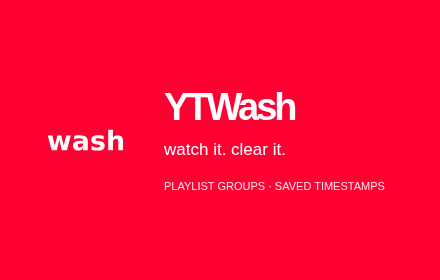
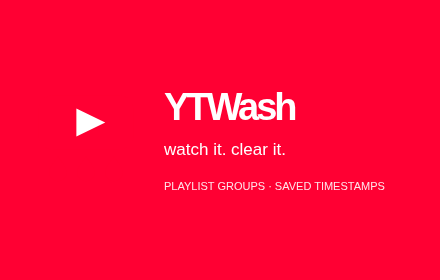
Try play button and red raindrops branding

Changed region(s): [[0.0886, 0.4, 0.2955, 0.5429]]

diff --git a/assets/brand/social-preview.html b/assets/brand/social-preview.html
@@ -5,5 +5,5 @@
   .copy{flex:1}h1{font-size:88px;letter-spacing:-3px;margin:0 0 24px;line-height:1}
   p{font-size:32px;line-height:1.4;margin:0;max-width:720px;font-weight:500}
   .features{font-size:17px;letter-spacing:1px;margin-top:34px;color:#ffe4eb}
-  </style></head><body><div class="logo"><svg xmlns="http://www.w3.org/2000/svg" viewBox="0 0 512 512" role="img" aria-label="YTWash"><rect x="20" y="112" width="472" height="288" rx="72" fill="#ff0033"/><g fill="#fff" transform="translate(77 302.8028902705428) scale(0.06015795664594186 -0.06015795664594186)"><path transform="translate(0 0)" d="M72 1120H420L608 348L797 1120H1096L1284 356L1473 1120H1821L1526 0H1135L946 770L758 0H367Z"/><path transform="translate(1892 0)" d="M674 504Q562 504 505.5 466.0Q449 428 449 354Q449 286 494.5 247.5Q540 209 621 209Q722 209 791.0 281.5Q860 354 860 463V504ZM1221 639V0H860V166Q788 64 698.0 17.5Q608 -29 479 -29Q305 -29 196.5 72.5Q88 174 88 336Q88 533 223.5 625.0Q359 717 649 717H860V745Q860 830 793.0 869.5Q726 909 584 909Q469 909 370.0 886.0Q271 863 186 817V1090Q301 1118 417.0 1132.5Q533 1147 649 1147Q952 1147 1086.5 1027.5Q1221 908 1221 639Z"/><path transform="translate(3274 0)" d="M1047 1085V813Q932 861 825.0 885.0Q718 909 623 909Q521 909 471.5 883.5Q422 858 422 805Q422 762 459.5 739.0Q497 716 594 705L657 696Q932 661 1027.0 581.0Q1122 501 1122 330Q1122 151 990.0 61.0Q858 -29 596 -29Q485 -29 366.5 -11.5Q248 6 123 41V313Q230 261 342.5 235.0Q455 209 571 209Q676 209 729.0 238.0Q782 267 782 324Q782 372 745.5 395.5Q709 419 600 432L537 440Q298 470 202.0 551.0Q106 632 106 797Q106 975 228.0 1061.0Q350 1147 602 1147Q701 1147 810.0 1132.0Q919 1117 1047 1085Z"/><path transform="translate(4493 0)" d="M1298 682V0H938V111V520Q938 667 931.5 722.0Q925 777 909 803Q888 838 852.0 857.5Q816 877 770 877Q658 877 594.0 790.5Q530 704 530 551V0H172V1556H530V956Q611 1054 702.0 1100.5Q793 1147 903 1147Q1097 1147 1197.5 1028.0Q1298 909 1298 682Z"/></g></svg>
+  </style></head><body><div class="logo"><svg xmlns="http://www.w3.org/2000/svg" viewBox="0 0 512 512" role="img" aria-label="YTWash play button and rain"><rect x="40" y="52" width="432" height="248" rx="64" fill="#ff0033"/><path d="M212 112L344 176 212 240Z" fill="#fff"/><g fill="#ff0033"><path id="drop" d="M128 332C116 351 88 376 88 404a40 40 0 0 0 80 0c0-28-28-53-40-72Z"/><use href="#drop" x="128"/><use href="#drop" x="256"/></g></svg>
 </div><div class="copy"><h1>YTWash</h1><p>watch it. clear it.</p><div class="features">PLAYLIST GROUPS · SAVED TIMESTAMPS</div></div></body></html>

diff --git a/assets/brand/store-marquee.html b/assets/brand/store-marquee.html
@@ -5,5 +5,5 @@
   .copy{flex:1}h1{font-size:88px;letter-spacing:-3px;margin:0 0 24px;line-height:1}
   p{font-size:32px;line-height:1.4;margin:0;max-width:720px;font-weight:500}
   .features{font-size:17px;letter-spacing:1px;margin-top:34px;color:#ffe4eb}
-  </style></head><body><div class="logo"><svg xmlns="http://www.w3.org/2000/svg" viewBox="0 0 512 512" role="img" aria-label="YTWash"><rect x="20" y="112" width="472" height="288" rx="72" fill="#ff0033"/><g fill="#fff" transform="translate(77 302.8028902705428) scale(0.06015795664594186 -0.06015795664594186)"><path transform="translate(0 0)" d="M72 1120H420L608 348L797 1120H1096L1284 356L1473 1120H1821L1526 0H1135L946 770L758 0H367Z"/><path transform="translate(1892 0)" d="M674 504Q562 504 505.5 466.0Q449 428 449 354Q449 286 494.5 247.5Q540 209 621 209Q722 209 791.0 281.5Q860 354 860 463V504ZM1221 639V0H860V166Q788 64 698.0 17.5Q608 -29 479 -29Q305 -29 196.5 72.5Q88 174 88 336Q88 533 223.5 625.0Q359 717 649 717H860V745Q860 830 793.0 869.5Q726 909 584 909Q469 909 370.0 886.0Q271 863 186 817V1090Q301 1118 417.0 1132.5Q533 1147 649 1147Q952 1147 1086.5 1027.5Q1221 908 1221 639Z"/><path transform="translate(3274 0)" d="M1047 1085V813Q932 861 825.0 885.0Q718 909 623 909Q521 909 471.5 883.5Q422 858 422 805Q422 762 459.5 739.0Q497 716 594 705L657 696Q932 661 1027.0 581.0Q1122 501 1122 330Q1122 151 990.0 61.0Q858 -29 596 -29Q485 -29 366.5 -11.5Q248 6 123 41V313Q230 261 342.5 235.0Q455 209 571 209Q676 209 729.0 238.0Q782 267 782 324Q782 372 745.5 395.5Q709 419 600 432L537 440Q298 470 202.0 551.0Q106 632 106 797Q106 975 228.0 1061.0Q350 1147 602 1147Q701 1147 810.0 1132.0Q919 1117 1047 1085Z"/><path transform="translate(4493 0)" d="M1298 682V0H938V111V520Q938 667 931.5 722.0Q925 777 909 803Q888 838 852.0 857.5Q816 877 770 877Q658 877 594.0 790.5Q530 704 530 551V0H172V1556H530V956Q611 1054 702.0 1100.5Q793 1147 903 1147Q1097 1147 1197.5 1028.0Q1298 909 1298 682Z"/></g></svg>
+  </style></head><body><div class="logo"><svg xmlns="http://www.w3.org/2000/svg" viewBox="0 0 512 512" role="img" aria-label="YTWash play button and rain"><rect x="40" y="52" width="432" height="248" rx="64" fill="#ff0033"/><path d="M212 112L344 176 212 240Z" fill="#fff"/><g fill="#ff0033"><path id="drop" d="M128 332C116 351 88 376 88 404a40 40 0 0 0 80 0c0-28-28-53-40-72Z"/><use href="#drop" x="128"/><use href="#drop" x="256"/></g></svg>
 </div><div class="copy"><h1>YTWash</h1><p>watch it. clear it.</p><div class="features">PLAYLIST GROUPS · SAVED TIMESTAMPS</div></div></body></html>

diff --git a/assets/brand/store-tile.html b/assets/brand/store-tile.html
@@ -5,5 +5,5 @@
   .copy{flex:1}h1{font-size:38px;letter-spacing:-3px;margin:0 0 12px;line-height:1}
   p{font-size:17px;line-height:1.4;margin:0;max-width:720px;font-weight:500}
   .features{font-size:11px;letter-spacing:0px;margin-top:18px;color:#ffe4eb}
-  </style></head><body><div class="logo"><svg xmlns="http://www.w3.org/2000/svg" viewBox="0 0 512 512" role="img" aria-label="YTWash"><rect x="20" y="112" width="472" height="288" rx="72" fill="#ff0033"/><g fill="#fff" transform="translate(77 302.8028902705428) scale(0.06015795664594186 -0.06015795664594186)"><path transform="translate(0 0)" d="M72 1120H420L608 348L797 1120H1096L1284 356L1473 1120H1821L1526 0H1135L946 770L758 0H367Z"/><path transform="translate(1892 0)" d="M674 504Q562 504 505.5 466.0Q449 428 449 354Q449 286 494.5 247.5Q540 209 621 209Q722 209 791.0 281.5Q860 354 860 463V504ZM1221 639V0H860V166Q788 64 698.0 17.5Q608 -29 479 -29Q305 -29 196.5 72.5Q88 174 88 336Q88 533 223.5 625.0Q359 717 649 717H860V745Q860 830 793.0 869.5Q726 909 584 909Q469 909 370.0 886.0Q271 863 186 817V1090Q301 1118 417.0 1132.5Q533 1147 649 1147Q952 1147 1086.5 1027.5Q1221 908 1221 639Z"/><path transform="translate(3274 0)" d="M1047 1085V813Q932 861 825.0 885.0Q718 909 623 909Q521 909 471.5 883.5Q422 858 422 805Q422 762 459.5 739.0Q497 716 594 705L657 696Q932 661 1027.0 581.0Q1122 501 1122 330Q1122 151 990.0 61.0Q858 -29 596 -29Q485 -29 366.5 -11.5Q248 6 123 41V313Q230 261 342.5 235.0Q455 209 571 209Q676 209 729.0 238.0Q782 267 782 324Q782 372 745.5 395.5Q709 419 600 432L537 440Q298 470 202.0 551.0Q106 632 106 797Q106 975 228.0 1061.0Q350 1147 602 1147Q701 1147 810.0 1132.0Q919 1117 1047 1085Z"/><path transform="translate(4493 0)" d="M1298 682V0H938V111V520Q938 667 931.5 722.0Q925 777 909 803Q888 838 852.0 857.5Q816 877 770 877Q658 877 594.0 790.5Q530 704 530 551V0H172V1556H530V956Q611 1054 702.0 1100.5Q793 1147 903 1147Q1097 1147 1197.5 1028.0Q1298 909 1298 682Z"/></g></svg>
+  </style></head><body><div class="logo"><svg xmlns="http://www.w3.org/2000/svg" viewBox="0 0 512 512" role="img" aria-label="YTWash play button and rain"><rect x="40" y="52" width="432" height="248" rx="64" fill="#ff0033"/><path d="M212 112L344 176 212 240Z" fill="#fff"/><g fill="#ff0033"><path id="drop" d="M128 332C116 351 88 376 88 404a40 40 0 0 0 80 0c0-28-28-53-40-72Z"/><use href="#drop" x="128"/><use href="#drop" x="256"/></g></svg>
 </div><div class="copy"><h1>YTWash</h1><p>watch it. clear it.</p><div class="features">PLAYLIST GROUPS · SAVED TIMESTAMPS</div></div></body></html>

diff --git a/assets/brand/README.md b/assets/brand/README.md
@@ -1,9 +1,9 @@
 # YTWash publishing assets
 
-Logo: white lowercase **wash** centered inside a smooth red rounded video button. Slogan: **watch it. clear it.**
+Logo: a red play button with a white triangle above three red raindrops. Slogan: **watch it. clear it.**
 
 `logo.svg` is the vector master with outlined lettering and transparent exterior. `favicon.svg` uses the same design. Transparent extension icons are exported at 16, 32, 48, 64, 128, 256, and 512 pixels in `public/icons/`. Site favicons include SVG, PNG, ICO, and a 180px Apple touch icon.
 
 Promotional graphics: 440×280 store tile, 1400×560 store marquee, and 1200×630 social preview. Editable HTML sources are included. Recreate exports using `node scripts/export-brand.mjs` with Playwright Chromium installed.
 
-Palette: red `#ff0033`, white `#ffffff`. Letter outlines use DejaVu Sans Bold; see FONT-LICENSE.txt. Brush-stroke files are retained as previous concepts.
+Palette: red `#ff0033`, white `#ffffff`. Previous outlined text concepts use DejaVu Sans Bold; see FONT-LICENSE.txt. Brush-stroke files and `wash-button.svg` are retained as previous concepts.
